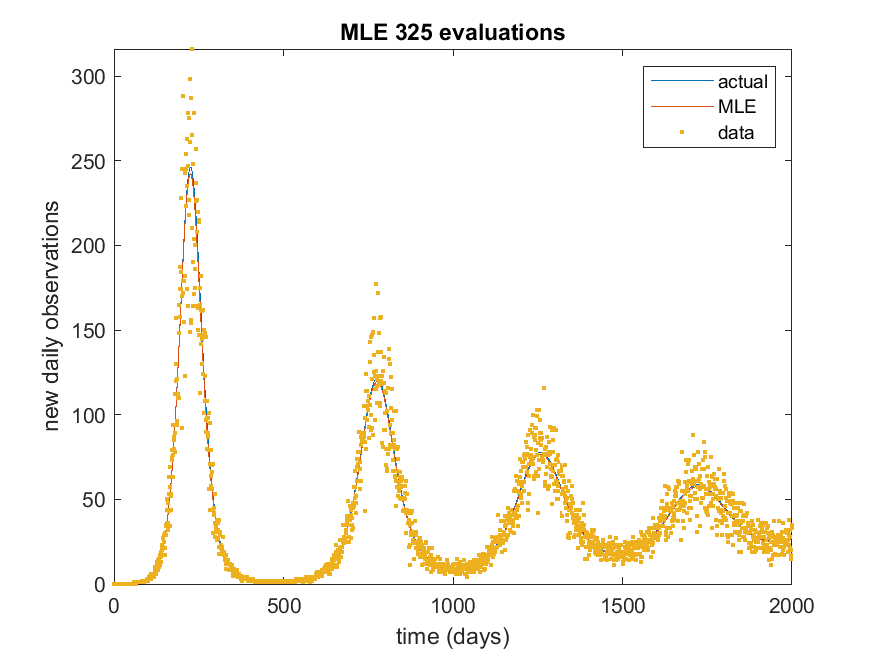
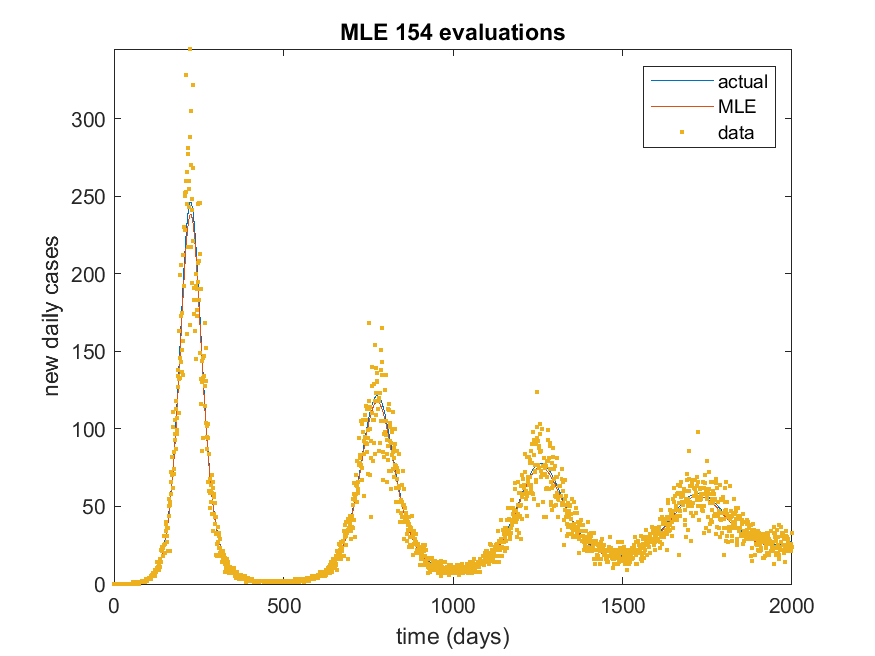
Factored out plotting code
Factored out plotting code so that it will work on a generic specified model

diff --git a/main.m b/main.m
@@ -32,6 +32,9 @@ savLbl = "SEIR";
 parLbl = ["R0", "tR", "pObs", "obsSD"];
 Theta0 = [1.5; 400; 0.1; 0.4];
 
+xLbl = 'time (days)';
+yLbl = 'new daily cases';
+
 % Define lower and upper bounds on fitted parameters
 lb = [0; 0; 0; 0];
 ub = [20; 2000; 1; 2];
@@ -40,8 +43,7 @@ ub = [20; 2000; 1; 2];
 ThetaLower = [1.2; 250; 0.005; 0.15];
 ThetaUpper = [1.4; 350; 0.015; 0.4];
 
-
-
+iModel = 1;
 
 %%%%%%%%%%%%%%%%%%%%%%%%%%%%%%%%%%%%%%%%%%%%%%%%%%%%%%%%%%%%%%%%%%%%%%%
 % Generate data from forward model
@@ -56,27 +58,20 @@ ThetaTrue = [par.R0; par.tR; par.pObs; par.obsSD];
 
 
 
-
-
-
-
 %%%%%%%%%%%%%%%%%%%%%%%%%%%%%%%%%%%%%%%%%%%%%%%%%%%%%%%%%%%%%%%%%%%%%%%
 % Find MLE
 %%%%%%%%%%%%%%%%%%%%%%%%%%%%%%%%%%%%%%%%%%%%%%%%%%%%%%%%%%%%%%%%%%%%%%%
 
+fprintf('Model %s:   Basic method MLE...  ', savLbl)
 [ThetaMLE, parMLE, solMLE, countMLE] = doMLE(getTrialPar, solveModel, obs, par, Theta0, lb, ub, options);
-
-
 
 
 %%%%%%%%%%%%%%%%%%%%%%%%%%%%%%%%%%%%%%%%%%%%%%%%%%%%%%%%%%%%%%%%%%%%%%%
 % Profile each parameter
 %%%%%%%%%%%%%%%%%%%%%%%%%%%%%%%%%%%%%%%%%%%%%%%%%%%%%%%%%%%%%%%%%%%%%%%
 
+fprintf('profiling...   ')
 [logLik, countProfile] = doProfiling(getTrialPar, solveModel, obs, par, ThetaMLE, Theta0, lb, ub, ThetaLower, ThetaUpper, nMesh, options);
-
-
-
 
 
 
@@ -84,40 +79,11 @@ ThetaTrue = [par.R0; par.tR; par.pObs; par.obsSD];
 % Plotting results of basic method
 %%%%%%%%%%%%%%%%%%%%%%%%%%%%%%%%%%%%%%%%%%%%%%%%%%%%%%%%%%%%%%%%%%%%%%%%%
 
-h = figure(1);
-plot(sol.t, sol.eObs, solMLE.t, solMLE.eObs , sol.t, obs, '.' )
-legend('actual', 'MLE', 'data')
-xlabel('time (days)')
-ylabel('new daily observations')
-ylim([0 inf])
-title(sprintf('MLE %i evaluations', countMLE))
-drawnow
-saveas(gcf, savFolder+"mle_"+savLbl, 'png');
-
-
-h = figure(2);
-h.Position = [   560         239        1012         709];
-nPars = length(Theta0);      % number of parameters to profile
-for iPar = 1:nPars
-    ThetaMesh = linspace(ThetaLower(iPar), ThetaUpper(iPar), nMesh);
-    subplot(2, 2, iPar)
-    plot(ThetaMesh, logLik(iPar, :))
-    xline(ThetaMLE(iPar), 'r--');
-    xline(ThetaTrue(iPar), 'k--');
-    legend('profile likelihood', 'MLE', 'actual')
-    xlabel(parLbl(iPar))
-    ylabel('log likelihood')
-    title(sprintf('Profile %i evaluations', countProfile(iPar)))
-    drawnow
-end
-saveas(gcf, savFolder+"profiles_"+savLbl, 'png');
-
-
-
-
+plotGraphs(sol, solMLE, obs, logLik, ThetaMLE, ThetaTrue, ThetaLower, ThetaUpper, nMesh, countMLE, countProfile, xLbl, yLbl, parLbl, "basic_"+savLbl, savFolder, 2*iModel-1);
 
 
 %%
+
 %%%%%%%%%%%%%%%%%%%%%%%%%%%%%%%%%%%%%%%%%%%%%%%%%%%%%%%%%%%%%%%%%%%%%%%
 % Find MLE with structured inference method
 % NB variables with 'Improved" suffix relate to output from the structured inference method as opposed to the basic method
@@ -128,6 +94,7 @@ parsToOptimise = 3;
 
 
 % Call improved MLE function
+fprintf('Structured method MLE... ')
 [ThetaMLEImproved, parMLEImproved, solMLEImproved, countMLEImproved] = doMLEImproved(getTrialPar, getTrialParImproved, solveModel, transformSolution, obs, par, Theta0, lb, ub, parsToOptimise, options);
 
 
@@ -137,7 +104,9 @@ parsToOptimise = 3;
 % Profiling with structured inference method
 %%%%%%%%%%%%%%%%%%%%%%%%%%%%%%%%%%%%%%%%%%%%%%%%%%%%%%%%%%%%%%%%%%%%%%%
 
+fprintf('profiling...   ')
 [logLikImproved, countProfileImproved] = doProfilingImproved(getTrialParImproved, solveModel, transformSolution, obs, par, ThetaMLEImproved, Theta0, lb, ub, ThetaLower, ThetaUpper, parsToOptimise, nMesh, options);
+fprintf('done\n')
 
 
 
@@ -145,33 +114,8 @@ parsToOptimise = 3;
 %%%%%%%%%%%%%%%%%%%%%%%%%%%%%%%%%%%%%%%%%%%%%%%%%%%%%%%%%%%%%%%%%%%%%%%%%
 % Plotting results of structued inference method
 %%%%%%%%%%%%%%%%%%%%%%%%%%%%%%%%%%%%%%%%%%%%%%%%%%%%%%%%%%%%%%%%%%%%%%%%%
-
-h = figure(3);
-plot(sol.t, sol.eObs, solMLEImproved.t, solMLEImproved.eObs, sol.t, obs, '.' )
-legend('actual', 'MLE', 'data')
-xlabel('time (days)')
-ylabel('new daily observations')
-ylim([0 inf])
-title(sprintf('MLE %i evaluations', countMLEImproved))
-drawnow
-saveas(gcf, savFolder+"mle_structured_"+savLbl, 'png');
-
-
-h = figure(4);
-h.Position = [   560         239        1012         709];
 parsToProfile = setdiff(1:length(Theta0), parsToOptimise);
-nPars = length(parsToProfile);      % number of parameters to profile
-for iPar = 1:nPars
-    ThetaMesh = linspace(ThetaLower(parsToProfile(iPar)), ThetaUpper(parsToProfile(iPar)), nMesh);
-    subplot(2, 2, iPar)
-    plot(ThetaMesh, logLikImproved(iPar, :))
-    xline(ThetaMLEImproved(parsToProfile(iPar)), 'r--');
-    xline(ThetaTrue(parsToProfile(iPar)), 'k--');
-    legend('profile likelihood', 'MLE', 'actual')
-    xlabel(parLbl(parsToProfile(iPar)))
-    ylabel('log likelihood')
-    title(sprintf('Profile %i evaluations', countProfileImproved(iPar)))
-    drawnow
-end
-saveas(gcf, savFolder+"profiles_structured_"+savLbl, 'png');
+plotGraphs(sol, solMLEImproved, obs, logLikImproved, ThetaMLEImproved(parsToProfile), ThetaTrue(parsToProfile), ThetaLower(parsToProfile), ThetaUpper(parsToProfile), nMesh, countMLEImproved, countProfileImproved, xLbl, yLbl, parLbl(parsToProfile), "structured_"+savLbl, savFolder, 2*iModel);
+
+
 

diff --git a/plotGraphs.m b/plotGraphs.m
@@ -1,0 +1,33 @@
+function plotGraphs(sol, solMLE, obs, logLik, ThetaMLE, ThetaTrue, ThetaLower, ThetaUpper, nMesh, countMLE, countProfile, xLbl, yLbl, parLbl, savLbl, savFolder, iCall)
+
+h = figure(2*(iCall-1)+1);
+plot(sol.t, sol.eObs, solMLE.t, solMLE.eObs , sol.t, obs, '.' )
+legend('actual', 'MLE', 'data')
+xlabel(xLbl)
+ylabel(yLbl)
+ylim([0 inf])
+title(sprintf('MLE %i evaluations', countMLE))
+drawnow
+pause(0.1)
+saveas(gcf, savFolder+"mle_"+savLbl, 'png');
+
+
+h = figure(2*iCall);
+h.Position = [   560         239        1012         709];
+nPars = length(ThetaTrue);      % number of parameters to profile
+for iPar = 1:nPars
+    ThetaMesh = linspace(ThetaLower(iPar), ThetaUpper(iPar), nMesh);
+    subplot(2, 2, iPar)
+    plot(ThetaMesh, logLik(iPar, :))
+    xline(ThetaMLE(iPar), 'r--');
+    xline(ThetaTrue(iPar), 'k--');
+    legend('profile likelihood', 'MLE', 'actual')
+    xlabel(parLbl(iPar))
+    ylabel('log likelihood')
+    title(sprintf('Profile %i evaluations', countProfile(iPar)))
+    drawnow
+end
+pause(0.1)
+saveas(gcf, savFolder+"profiles_"+savLbl, 'png');
+
+

diff --git a/functions/doMLEImproved.m b/functions/doMLEImproved.m
@@ -17,7 +17,7 @@ countMLEImproved = output.funcCount;
 [~, PhiMLE] = calcLogLikImproved(getTrialParImproved, solveModel, transformSolution, obs, ThetaMLE_contracted, par, Theta0(parsToOptimise), lb(parsToOptimise), ub(parsToOptimise), options);
 
 % Combine the output from fmincon with the value of the parameter(s) optimised "within the loop" into a single vector of consistent format with ThetaMLE
-ThetaMLEImproved = makeTheta(PhiMLE, ThetaMLE_contracted, parsToOptimise )
+ThetaMLEImproved = makeTheta(PhiMLE, ThetaMLE_contracted, parsToOptimise );
 
 % Solve model at MLE estimate and plot results
 parMLEImproved = getTrialPar(ThetaMLEImproved, par);
